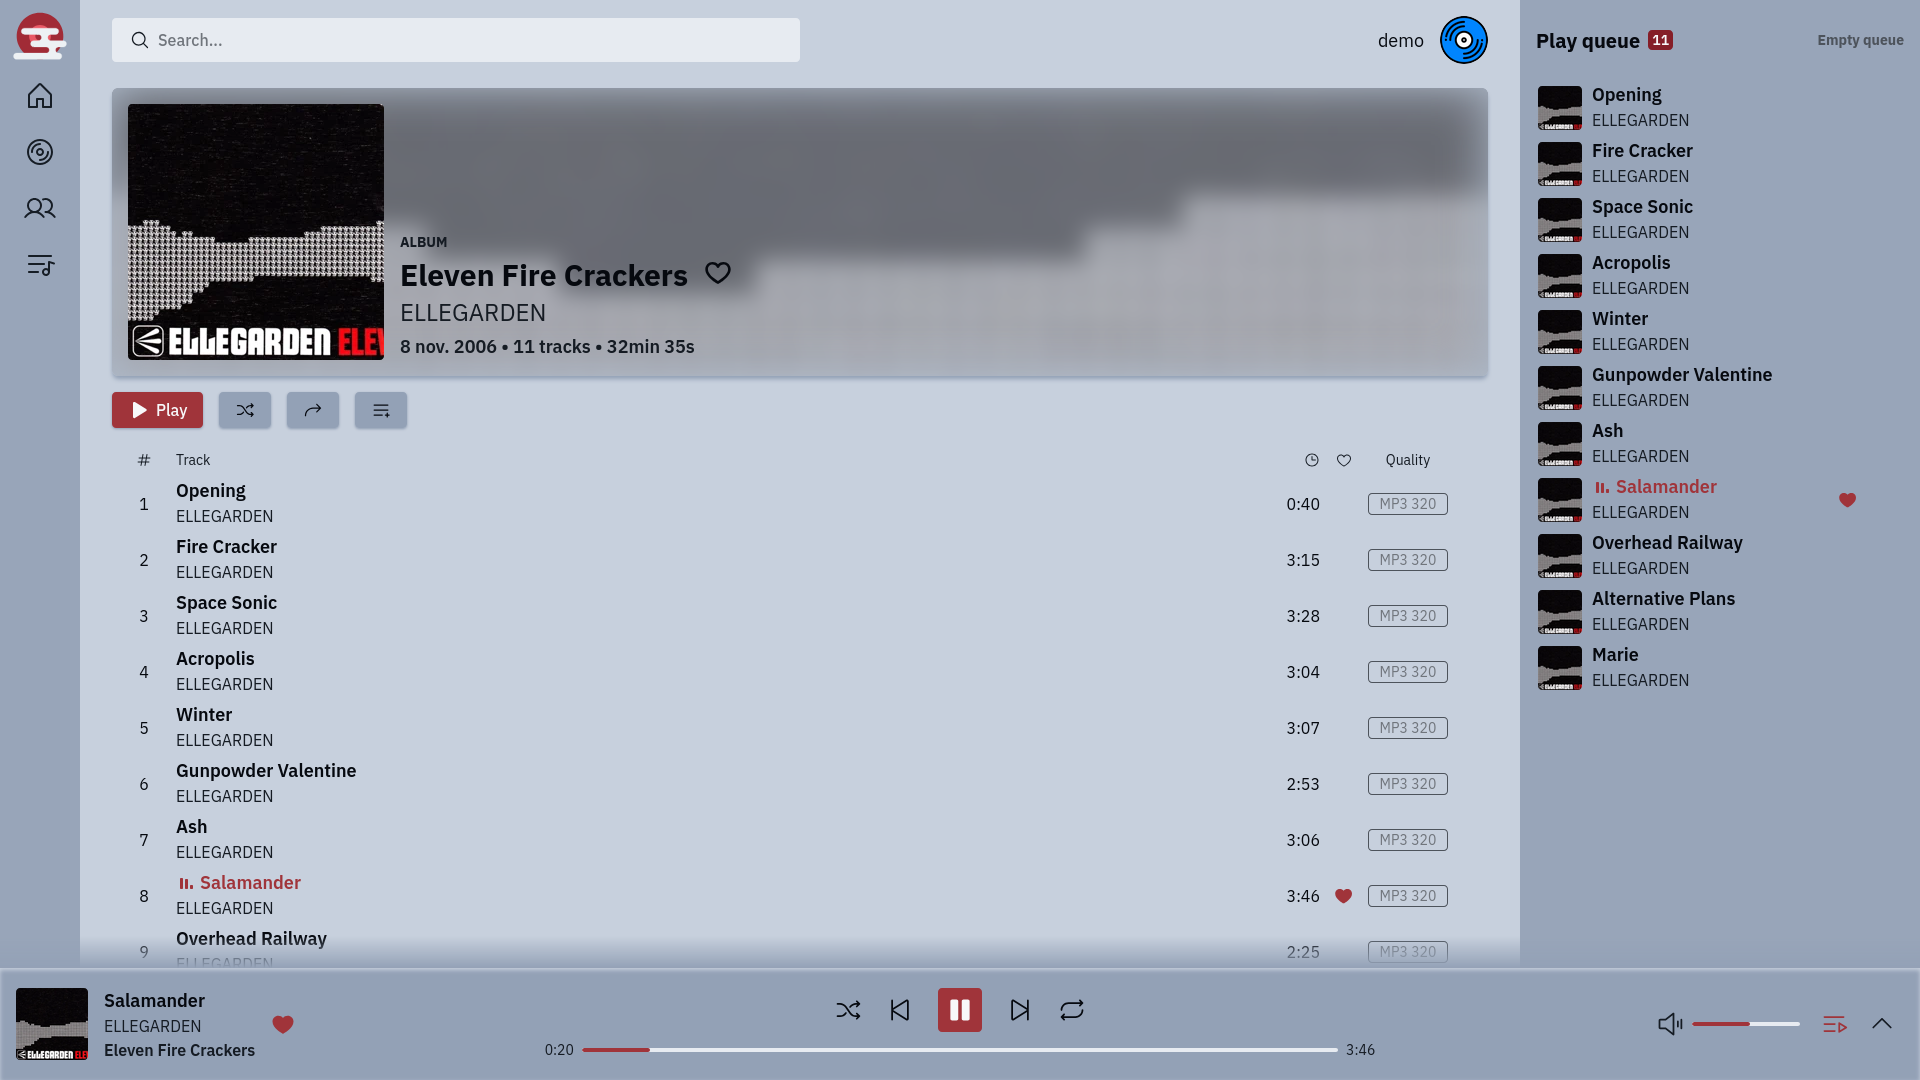
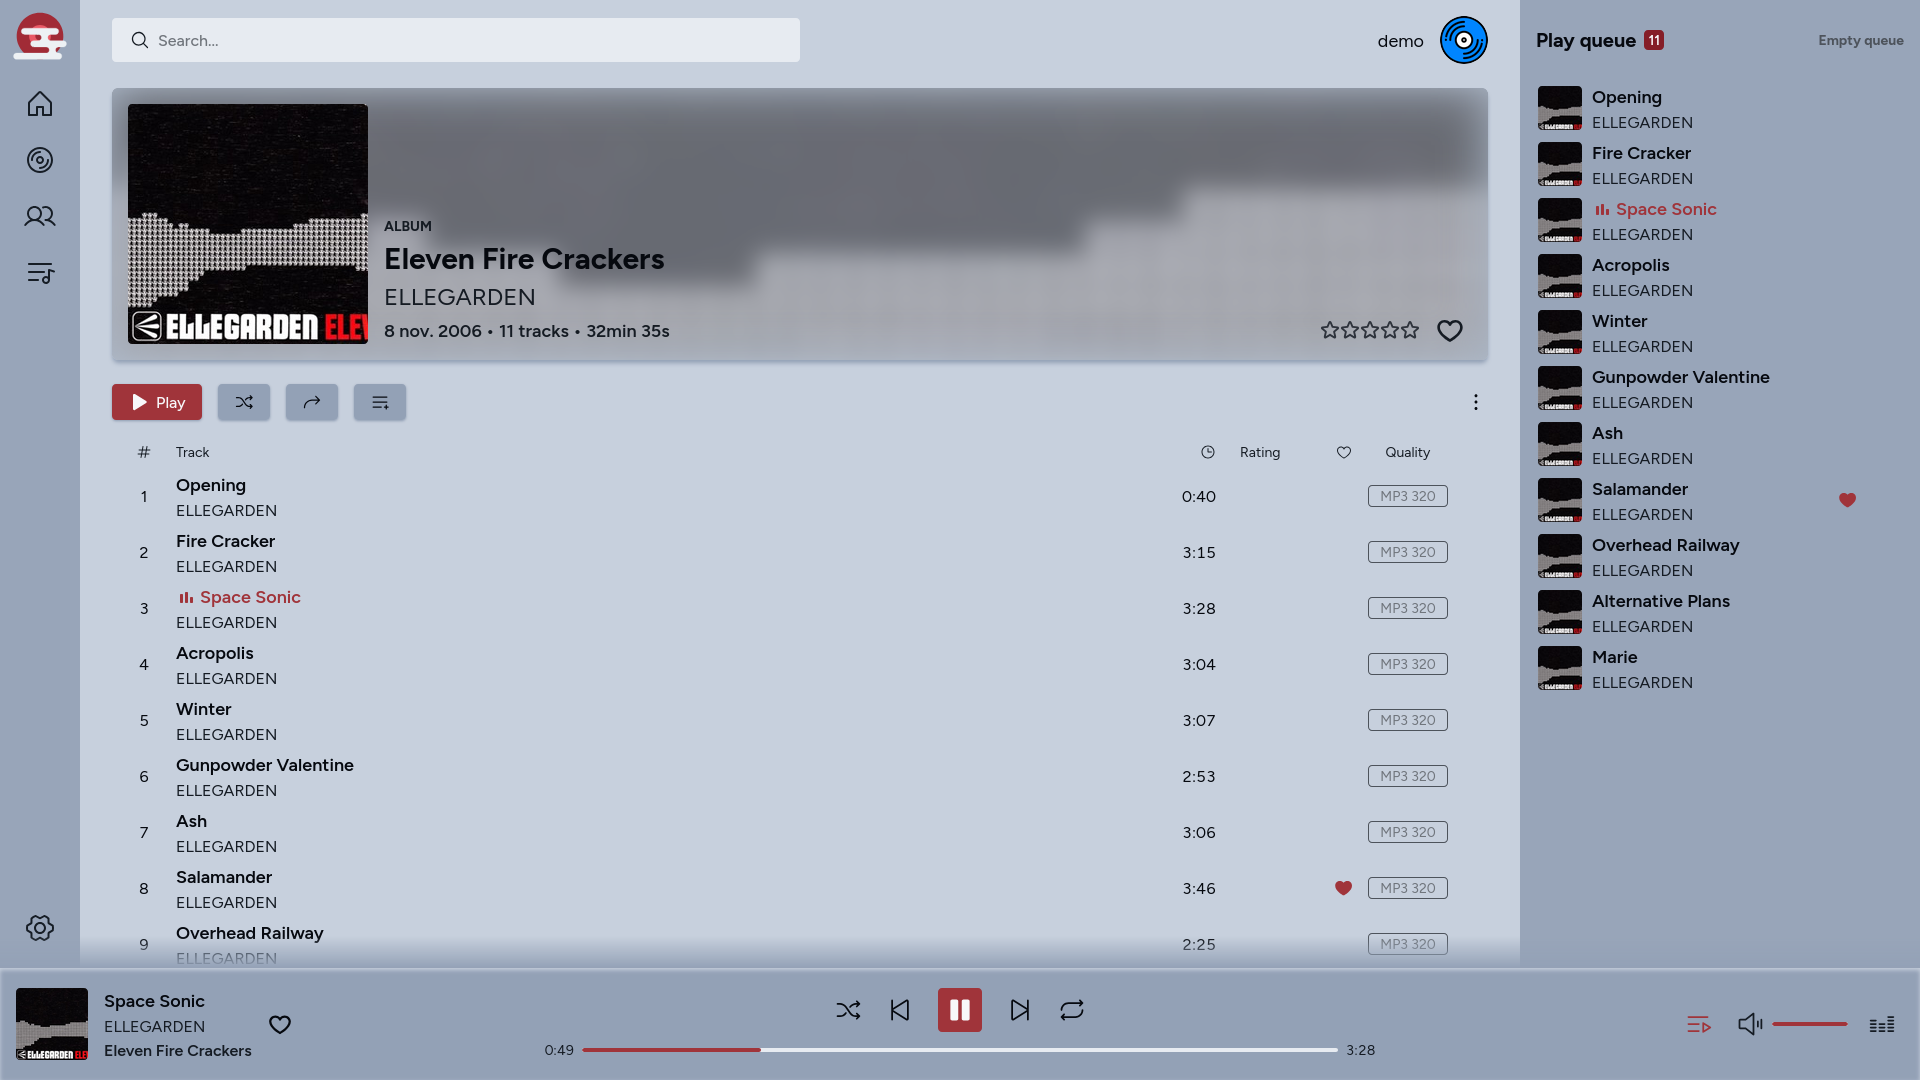
Readme and screenshot updates

diff --git a/README.md b/README.md
@@ -8,8 +8,8 @@ A modern, desktop-focused web client for OpenSubsonic-compatible music servers.
 
 ## Features
 
-- Clean, responsive UI built with [Svelte 5](https://svelte.dev/)
-- Client only: all data is stored locally
+- Clean, responsive UI built with [Svelte 5](https://svelte.dev/), optimized for desktop screens
+- Client only, no offline mode: everything runs in your browser
 - Scrobble tracks to your server
 - Create, edit and delete playlists
 - Light and Dark themes support
@@ -30,10 +30,9 @@ A modern, desktop-focused web client for OpenSubsonic-compatible music servers.
         <td><a href="./media/screenshot_02_album_id.png">
             <img src="./media/screenshot_02_album_id.png" width="100%"> 
         </a></td>
-        <td><a href="./media/screenshot_03_player.png">
-            <img src="./media/screenshot_03_player.png" width="100%"> 
+        <td><a href="./media/screenshot_03_stage.png">
+            <img src="./media/screenshot_03_stage.png" width="100%"> 
         </a></td>
-    </tr>
     <tr>
         <td><a href="./media/screenshot_04_album_id-dark.png">
             <img src="./media/screenshot_04_album_id-dark.png" width="100%"> 
@@ -59,7 +58,6 @@ docker run -p 8080:80 ghcr.io/kusefiru/mist:VERSION
 
 ### Docker compose
 
-Supposedly, you can use this.
 ```sh
 services:
   mist:
@@ -71,40 +69,15 @@ services:
 
 ### Static files
 
-Mist is entirely client-side, so you can grab the [latest release](https://github.com/Kusefiru/Mist/releases/latest) artefact and run it through a basic nginx setup:
-```nginx
-server {
-    listen 80;
+Mist is entirely client-side, so you can grab the [latest release](https://github.com/Kusefiru/Mist/releases/latest) artefact and run it through a basic nginx setup.
+See the [bundled Docker nginx configuration file](./resources/nginx.conf).
 
-    root /var/www/your-app-name;
-    index index.html;
-
-    location / {
-        try_files $uri $uri/ /index.html;
-    }
-}
-```
-
-Or you can simply run the included run_server.py Python script, assuming you have Python 3 on your machine. PORT is optional (default to 8000).
+You can also instead run the [included Python script](./run_server.py), assuming you have Python 3 on your machine. PORT is optional (default to 8000).
 ```sh
 ./run_server.py [PORT]
 ```
 
 > **Note:** This script uses Python basic HTTP server, see [security considerations](https://docs.python.org/3/library/http.server.html#security-considerations).
-
-## Roadmap
-
-This is a non exhaustive of features planned for future releases:
-
-- [ ] Lyrics support
-- [ ] Internet radios support
-- [ ] Podcasts support
-- [ ] Jukebox support
-- [ ] Equalization settings
-- [ ] More visualizers
-- [ ] Native app with [Tauri](https://tauri.app/)
-
-Feel free to request additional features if not listed here.
 
 ## Support
 
@@ -113,9 +86,24 @@ Mist works with any server implementing the [OpenSubsonic API](https://opensubso
 Tested with:
 - [x] [Navidrome](https://www.navidrome.org/) v0.63.2
 
-If you encounter problems with a specific server, please open an issue.
+If you encounter a problem with a specific server, please open an issue.
 
 > **Note:** Mist is built for desktop browsers. I recommend not using it on mobile at all, as the interface hasn't been conceived for it.
+
+## Roadmap
+
+This is a non exhaustive list of features planned for future releases:
+
+- Multi-server support
+- Lyrics support
+- Internet radios support
+- Podcasts support
+- Jukebox support
+- Equalization settings
+- More visualizers
+- Native app with [Tauri](https://tauri.app/)
+
+Feel free to request additional features if not listed here.
 
 ## License
 
